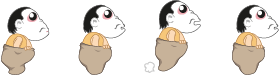
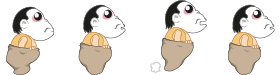
collision dibenerin, level generator dirapihin

diff --git a/SackRace/src/flipbox/sackrace/level/LevelGenerator.java b/SackRace/src/flipbox/sackrace/level/LevelGenerator.java
@@ -28,10 +28,14 @@ public class LevelGenerator {
     static Vector bloodList = new Vector();
     static String[] obstaclesUp = {"/resource/obstacles/obstacle_bat.png", "/resource/obstacles/obstacle_bird.png",
         "/resource/obstacles/obstacle_balon.png", "/resource/obstacles/obstacle_awan.png"};
-    static String[] obstaclesDown = {"/resource/obstacles/lubangkuburan.png",
-        "/resource/obstacles/lubangjalan.png", "/resource/obstacles/obstacle_batu.png", "/resource/obstacles/obstacle_tai.png",
+//    static String[] obstaclesDown = {"/resource/obstacles/lubangkuburan.png",
+//        "/resource/obstacles/lubangjalan.png", "/resource/obstacles/obstacle_batu.png", "/resource/obstacles/obstacle_tai.png",
+//        "/resource/obstacles/obstacle_hidran.png"};
+    static String[] obstaclesDown = {"/resource/obstacles/obstacle_batu.png", "/resource/obstacles/obstacle_tai.png",
         "/resource/obstacles/obstacle_hidran.png"};
     static int distance = 0;
+    static boolean damaged = false;
+    static int obstacleCounter, coinCounter = 0;
 
     public static void initConstraints(int minObs, int maxObs, int minBerk, int maxBerk,
             int minBlo, int maxBlo, int minCo, int maxCo) {
@@ -77,16 +81,17 @@ public class LevelGenerator {
                         image = new ImageItem(obstaclesDown[valDown]);
                         image.setX(10);
                     }
-                    image.setY(400 + (k * constraint.minObstacleDistance));
+                    image.setY(400 + (k * randomValue(constraint.minObstacleDistance,
+                            constraint.minObstacleDistance * 2)));
                 } catch (IOException ex) {
                     ex.printStackTrace();
                 }
                 Obstacle obj = new Obstacle();
                 obj.setSprite(image);
                 if (rand >= 15) {
-                    obj.setType(TypeList.TREE);
+                    obj.setType(TypeList.UP);
                 } else {
-                    obj.setType(TypeList.ROCK);
+                    obj.setType(TypeList.DOWN);
                 }
                 obj.setDamage(1);
                 obstacleList.addElement(obj);
@@ -128,8 +133,11 @@ public class LevelGenerator {
                 ImageItem image = null;
                 try {
                     image = new ImageItem("/resource/items/coin.png");
-                    image.setX(50);
-                    image.setY(300 + (k * constraint.minCoinDistance));
+//                    image.setX(40 + randomValue(7, 20));
+                    image.setX(40);
+                    image.setY(300 + k * constraint.minCoinDistance);
+//                    image.setY(300 + (k * randomValue(constraint.minCoinDistance,
+//                            constraint.minCoinDistance * 2)));
                 } catch (IOException ex) {
                     ex.printStackTrace();
                 }
@@ -151,8 +159,15 @@ public class LevelGenerator {
                 img.setY(img.getY() - 3);
             }
 
+            if(img.getY()>330 && constraint.objective.qualifiedValue - distance < 330)
+            {
+                img.setVisible(false);
+            }
+            
             if (img.getY() <= 330) {
-                g.drawImage(img.getImage(), img.getX(), img.getY(), Graphics.TOP | Graphics.LEFT);
+                if (img.isVisible()) {
+                    g.drawImage(img.getImage(), img.getX(), img.getY(), Graphics.TOP | Graphics.LEFT);
+                }
             }
             obj.setSprite(img);
             obstacleList.setElementAt(obj, x);
@@ -164,8 +179,15 @@ public class LevelGenerator {
                 img.setY(img.getY() - 3);
             }
 
+            if(img.getY()>330 && constraint.objective.qualifiedValue - distance < 330)
+            {
+                img.setVisible(false);
+            }
+            
             if (img.getY() <= 330) {
-                g.drawImage(img.getImage(), img.getX(), img.getY(), Graphics.TOP | Graphics.LEFT);
+                if (img.isVisible()) {
+                    g.drawImage(img.getImage(), img.getX(), img.getY(), Graphics.TOP | Graphics.LEFT);
+                }
             }
             obj.setSprite(img);
             coinList.setElementAt(obj, x);
@@ -173,12 +195,14 @@ public class LevelGenerator {
         for (int x = 0; x < bloodList.size(); x++) {
             Item obj = (Item) bloodList.elementAt(x);
             ImageItem img = obj.getSprite();
-            if (img.getY() > -150) {
+            if (img.getY() > -150 && constraint.objective.qualifiedValue - distance > 200) {
                 img.setY(img.getY() - 3);
             }
 
-            if (img.getY() <= 330) {
-                g.drawImage(img.getImage(), img.getX(), img.getY(), Graphics.TOP | Graphics.LEFT);
+            if (img.getY() <= 330 && constraint.objective.qualifiedValue - distance > 200) {
+                if (img.isVisible()) {
+                    g.drawImage(img.getImage(), img.getX(), img.getY(), Graphics.TOP | Graphics.LEFT);
+                }
             }
             obj.setSprite(img);
             bloodList.setElementAt(obj, x);
@@ -203,41 +227,52 @@ public class LevelGenerator {
         }
 
         //CHECK FOR COLLISION?
-        int frame = p.getSprite().getFrame();
-        //kalo jump syaratnya di frame 5. kalo slide di frame 4
-        for (int x = 0; x < obstacleList.size(); x++) {
-            Obstacle obj = (Obstacle) obstacleList.elementAt(x);
-            ImageItem img = obj.getSprite();
-            if (img.getY() == p.getSprite().getY() + 10) {
-                if (obj.getType() == TypeList.TREE) {
-                    if (p.getState() == TypeList.SLIDE) {
-                    } else {
-                        p.setBloodLevel(p.getBloodLevel() - 1);
-                    }
-                } else if (obj.getType() == TypeList.ROCK) {
-                    if (p.getState() == TypeList.JUMP) {
-                    } else {
-                        p.setBloodLevel(p.getBloodLevel() - 1);
-                    }
+        Obstacle obj = (Obstacle) obstacleList.elementAt(obstacleCounter);
+        ImageItem img = obj.getSprite();
+        if (img.getY() <= p.getSprite().getY() + 10 && img.getY() >= p.getSprite().getY() - 5) {
+            if (obj.getType() == TypeList.UP) {
+                if (p.getState() == TypeList.SLIDE) {
+                } else {
+                    damaged = true;
                 }
-                System.out.println("frame " + frame + " bloodlevel : " + p.getBloodLevel());
+            } else if (obj.getType() == TypeList.DOWN) {
+                if (p.getState() == TypeList.JUMP) {
+                } else {
+                    damaged = true;
+                }
             }
         }
 
-        for (int x = 0; x < coinList.size(); x++) {
-            Item obj = (Item) coinList.elementAt(x);
-            ImageItem img = obj.getSprite();
-            if (img.getY() == p.getSprite().getY()) {
-                if (p.getState() != TypeList.SLIDE) {
-                    p.setCoinCount(p.getCoinCount()+1);
-                }
+        if (img.getY() < p.getSprite().getY() - 10) {
+            if (damaged && img.isVisible()) {
+                p.setBloodLevel(p.getBloodLevel() - 1);
             }
+            obstacleCounter++;
+            damaged = false;
         }
+
+
+        Item coin_obj = (Item) coinList.elementAt(coinCounter);
+        ImageItem coin_img = coin_obj.getSprite();
+        if (coin_img.getY() <= p.getSprite().getY() + 3 && coin_img.getY() >= p.getSprite().getY() - 3) {
+            coin_img.setVisible(false);
+            p.setCoinCount(p.getCoinCount() + 1);
+            coinCounter++;
+        }
+//            if (coin_img.getY() == p.getSprite().getY()) {
+//                if (p.getState() != TypeList.SLIDE) {
+//                    p.setCoinCount(p.getCoinCount()+1);
+//                }
+//            }
+
         return false;
     }
 
     public static void stop() {
         distance = 0;
+        damaged = false;
+        obstacleCounter = 0;
+        coinCounter = 0;
         constraint = new LevelConstraint();
         obstacleList.removeAllElements();
         coinList.removeAllElements();

diff --git a/SackRace/src/flipbox/sackrace/staticvalue/TypeList.java b/SackRace/src/flipbox/sackrace/staticvalue/TypeList.java
@@ -6,28 +6,33 @@ package flipbox.sackrace.staticvalue;
 
 /**
  * berisi static identifier untuk pembeda jenis item/obstacle
+ *
  * @author QED
  */
 public class TypeList {
-    //type of obstacles
-    public static final int ROCK = 1;
+    //kind of obstacles
+    public static final int BAT = 1;
+    public static final int BIRD = 1;
+    public static final int BALLOON =1;
+    public static final int CLOUND =1;
+    public static final int HYDRANT = 2;
+    public static final int ROCK = 2;
     public static final int POOP = 2;
-    public static final int TREE = 3;
-    public static final int HOLE = 99;
-    
+    public static final int HOLE = 2;
+    //type of obstacles 
+    public static final int UP = 1;
+    public static final int DOWN = 2;
     //type of items
-    public static final int COIN=1;
-    public static final int BERSERK=2;
-    public static final int LIFE=3;
-    
+    public static final int COIN = 1;
+    public static final int BERSERK = 2;
+    public static final int LIFE = 3;
     //type of objectives
-    public static final int TIME=1;
-    public static final int COINS=2;
-    public static final int DISTANCE=3;
-    public static final int BLOOD=4;
-    
+    public static final int TIME = 1;
+    public static final int COINS = 2;
+    public static final int DISTANCE = 3;
+    public static final int BLOOD = 4;
     //type of player state
-    public static final int NORMAL=0;
-    public static final int JUMP=1;
-    public static final int SLIDE=2;
+    public static final int NORMAL = 0;
+    public static final int JUMP = 1;
+    public static final int SLIDE = 2;
 }

diff --git a/SackRace/src/flipbox/sackrace/gamescreen/GameRumah.java b/SackRace/src/flipbox/sackrace/gamescreen/GameRumah.java
@@ -79,7 +79,7 @@ public class GameRumah implements IGameScene {
         if (start) {
             try {
                 //Generate rintangan
-                finish = false;//LevelGenerator.run(g, player);
+                finish = LevelGenerator.run(g, player);
 
                 //Peletakkan gambar nyawa yang dimiliki di layar
                 renderLife(g);
@@ -221,7 +221,7 @@ public class GameRumah implements IGameScene {
      */
     private void initLevel() {
         LevelGenerator.initConstraints(6, 10, 0, 0, 1, 2, 30, 50);
-        LevelGenerator.initDistance(100, 300, 180, 200);
+        LevelGenerator.initDistance(50, 300, 180, 200);
         LevelGenerator.initObjective(TypeList.DISTANCE, 1000);
         LevelGenerator.generateObstacles();
         LevelGenerator.generateCoins();
@@ -294,7 +294,7 @@ public class GameRumah implements IGameScene {
      */
     private void setNgesot() throws Exception {
         Image bagong = StaticData.rotateImage(Image.createImage(
-                "/resource/chars/bagong_ngesot_old.png"), 90);
+                "/resource/chars/bagong_ngesot.png"), 90);
         player.setState(TypeList.SLIDE);
         player.setSprite(new AnimatedSprite(bagong, 70, bagong.getHeight() / 4, 3));
         player.getSprite().setPosition(17, 150);

diff --git a/SackRace/src/flipbox/sackrace/nongamescreen/MapScene.java b/SackRace/src/flipbox/sackrace/nongamescreen/MapScene.java
@@ -142,6 +142,6 @@ public class MapScene implements IGameScene {
     }
 
     public void clear(Graphics g) {
-        throw new UnsupportedOperationException("Not supported yet.");
+//        throw new UnsupportedOperationException("Not supported yet.");
     }
 }
